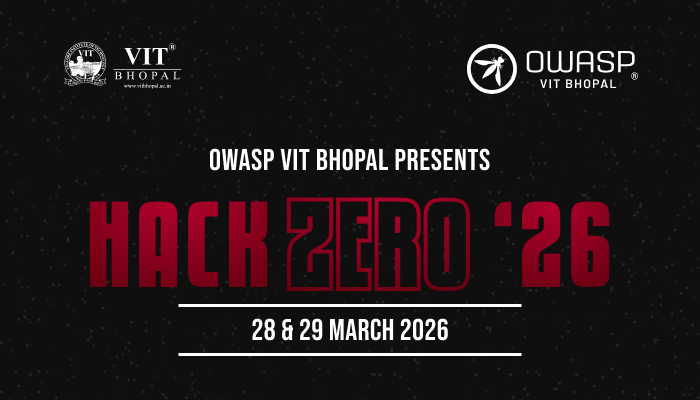
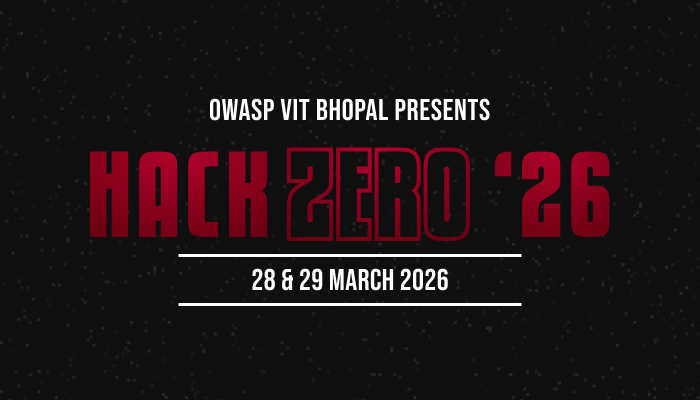
feat: update UpcomingEventCard to use new image source and replace Link with Button component

diff --git a/components/cards/UpcomingEventCard.tsx b/components/cards/UpcomingEventCard.tsx
@@ -1,8 +1,8 @@
 "use client";
 import React from "react";
 import Image from "next/image";
-import Link from "next/link";
 import { CalenderLogo } from "../shared/svg";
+import { Button } from "../ui/button";
 
 interface UpcomingEventCardProps {
     title: string;
@@ -29,7 +29,7 @@ const UpcomingEventCard: React.FC<UpcomingEventCardProps> = ({
 }) => {
     if (layout === "detailed") {
         return (
-            <div className="group relative w-full mt-6 md:mt-8 rounded-2xl border border-(--border) bg-white/3 overflow-hidden transition-all duration-500 hover:border-white/25 hover:bg-white/5">
+            <div className="group relative w-full mt-6 md:mt-8 rounded-2xl border border-(--border) bg-white/3 overflow-hidden">
                 <div className="grid grid-cols-1 md:grid-cols-[minmax(0,1.1fr)_minmax(0,1fr)]">
                     {imgUrl && (
                         <div className="relative w-full h-64 md:h-full min-h-64 overflow-hidden bg-[#111]">
@@ -37,7 +37,7 @@ const UpcomingEventCard: React.FC<UpcomingEventCardProps> = ({
                                 src={imgUrl}
                                 alt={title}
                                 fill
-                                className="object-cover transition-transform duration-700 group-hover:scale-105"
+                                className="object-cover object-center"
                                 sizes="(max-width: 768px) 100vw, 55vw"
                             />
                             <div className="absolute inset-0 bg-linear-to-t from-black/40 via-transparent to-transparent md:bg-linear-to-r md:from-transparent md:to-black/30" />
@@ -75,18 +75,9 @@ const UpcomingEventCard: React.FC<UpcomingEventCardProps> = ({
                         </p>
 
                         <div className="mt-auto flex items-center gap-2">
-                            {detailsHref ? (
-                                <Link
-                                    href={detailsHref}
-                                    className="inline-flex items-center rounded-full border border-white/20 bg-white px-4 py-2 text-xs font-semibold text-black transition hover:bg-white/90"
-                                >
-                                    {detailsLabel}
-                                </Link>
-                            ) : (
-                                <span className="inline-flex items-center rounded-full border border-white/15 bg-white/5 px-4 py-2 text-xs font-semibold tracking-wide text-white/85">
-                                    Stay Tuned
-                                </span>
-                            )}
+                            <Button href="/events/hackzero" className="h-9 rounded-full px-4 text-xs">
+                                Register
+                            </Button>
                         </div>
                     </div>
                 </div>
@@ -95,7 +86,7 @@ const UpcomingEventCard: React.FC<UpcomingEventCardProps> = ({
     }
 
     return (
-        <div className="group relative w-full mt-6 md:mt-8 rounded-2xl border border-(--border) overflow-hidden transition-all duration-500 hover:border-white/25 hover:shadow-[0_0_30px_rgba(255,255,255,0.06)]">
+        <div className=" relative w-full mt-6 md:mt-8 rounded-2xl border border-(--border) overflow-hidden transition-all duration-500 hover:border-white/25 hover:shadow-[0_0_30px_rgba(255,255,255,0.06)]">
             {/* Banner image — full, no trim */}
             {imgUrl && (
                 <div className="relative w-full overflow-hidden bg-[#111]">
@@ -104,7 +95,7 @@ const UpcomingEventCard: React.FC<UpcomingEventCardProps> = ({
                         alt={title}
                         width={800}
                         height={300}
-                        className="w-full h-auto object-contain transition-transform duration-700 group-hover:scale-105"
+                        className="w-full h-auto object-contain transition-transform duration-700"
                         sizes="(max-width: 768px) 100vw, 50vw"
                     />
                 </div>
@@ -129,18 +120,9 @@ const UpcomingEventCard: React.FC<UpcomingEventCardProps> = ({
                             Open
                         </span>
                     </div>
-                    {detailsHref ? (
-                        <Link
-                            href={detailsHref}
-                            className="px-3.5 py-1 rounded-lg border border-white/15 bg-white/5 text-xs font-semibold text-white/90 tracking-wide transition-all duration-300 hover:bg-white/10 hover:border-white/25"
-                        >
-                            {detailsLabel}
-                        </Link>
-                    ) : (
-                        <div className="px-3.5 py-1 rounded-lg border border-white/15 bg-white/5 text-xs font-semibold text-white/80 tracking-wide transition-all duration-300 hover:bg-white/10 hover:border-white/25 cursor-default select-none">
-                            Stay Tuned
-                        </div>
-                    )}
+                    <Button href="/events/hackzero" className="h-8 rounded-lg px-3.5 text-xs">
+                        Register
+                    </Button>
                 </div>
 
                 {/* Title + Date row */}

diff --git a/components/ui/button.tsx b/components/ui/button.tsx
@@ -1,25 +1,29 @@
 import React from 'react'
+import Link from 'next/link'
 
 
 type ButtonProps = {
   children: React.ReactNode;
   href?: string;
   onClick?: () => void;
+  className?: string;
+  type?: 'button' | 'submit' | 'reset';
 };
 
-export const Button = ({ children, href, onClick }: ButtonProps) => {
-  const className = 'flex h-10 w-auto px-7 justify-center items-center rounded-2xl bg-white font-bold text-[var(--text-colour)] text-sm ';
+export const Button = ({ children, href, onClick, className = '', type = 'button' }: ButtonProps) => {
+  const baseClassName = 'inline-flex h-10 w-auto px-7 justify-center items-center rounded-2xl bg-white font-bold text-[var(--text-colour)] text-sm transition-colors hover:bg-white/90';
+  const mergedClassName = `${baseClassName} ${className}`.trim();
   
   if (href) {
     return (
-      <a href={href} className={className} onClick={onClick}>
+      <Link href={href} className={mergedClassName} onClick={onClick}>
         {children}
-      </a>
+      </Link>
     );
   }
   
   return (
-    <button className={className} onClick={onClick}>
+    <button className={mergedClassName} onClick={onClick} type={type}>
       {children}
     </button>
   );

diff --git a/components/sections/eventSection.tsx b/components/sections/eventSection.tsx
@@ -73,10 +73,10 @@ const EventSection = () => {
 
   return (
     <Container className="px-4 md:px-6 lg:px-8">
-      <div className="w-full flex flex-col lg:flex-row gap-8 lg:gap-20 justify-between items-start mt-6 md:mt-10">
+      <div className="w-full flex flex-col lg:flex-row gap-8 lg:gap-20 justify-between items-stretch mt-6 md:mt-10">
         <div className="flex flex-col gap-4 w-full lg:w-1/2 h-full">
           <div className="text-4xl sm:text-5xl md:text-6xl lg:text-7xl font-medium">Our Events</div>
-          <div className="w-full h-[2px] bg-white/12" />
+          <div className="w-full h-0.5 bg-white/12" />
           <div className="text-sm md:text-base font-normal text-(--muted-text)">
             Over the years, we&apos;ve transformed the face of cybersecurity, thereby
             achieving a variety of undisputed accomplishments.

diff --git a/app/events/page.tsx b/app/events/page.tsx
@@ -28,7 +28,7 @@ const page = () => {
             title={upcomingEvent.title}
             date={upcomingEvent.date}
             description={upcomingEvent.description}
-            imgUrl={upcomingEvent.imgUrl}
+            imgUrl={upcomingEvent.headerSmallImg}
             mode={upcomingEvent.mode}
             status={upcomingEvent.status}
             layout="detailed"
